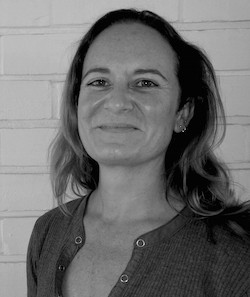
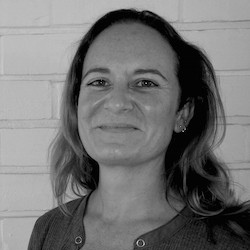
fixed photos

diff --git a/_layouts/post.html b/_layouts/post.html
@@ -13,7 +13,7 @@ layout: page
         <aside class="author-details hidden-xs hidden-sm">
           {% for author in site.data.authors %}
             {% if page.author == author.name %}
-              <p><img class="img-response img-circle" src="/img/team_{{ author.name|split:" "|first|downcase }}.png"></p>
+              <p><img class="img-response img-circle" src="/img/team_{{ author.name|split:" "|first|downcase }}.jpg"></p>
               <h5>{{ author.name }}</h5>
               <h5><a href="https://twitter.com/{{ author.twitter }}">{{ author.twitter }}</a></h5>
             {% endif %}
